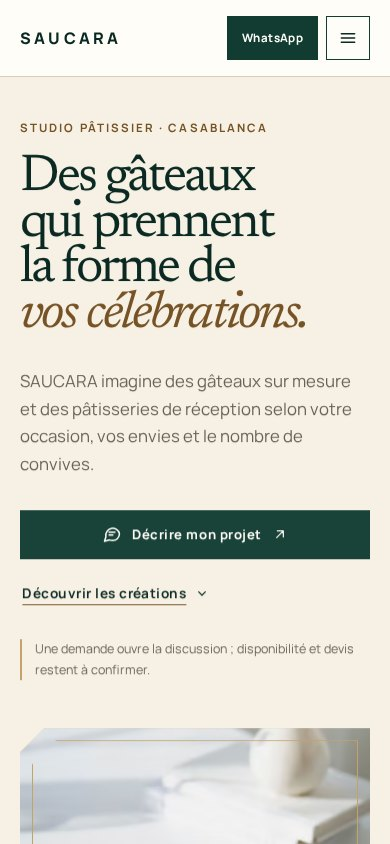
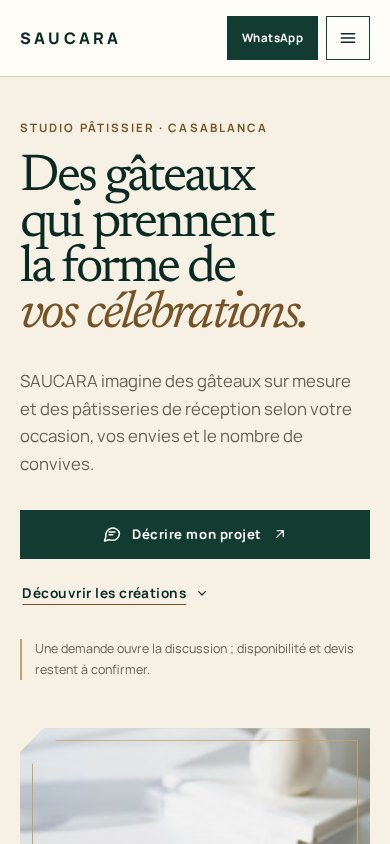
docs: finalize owner delivery packet

diff --git a/agency/state/QUALITY_REPORT.md b/agency/state/QUALITY_REPORT.md
@@ -2,35 +2,92 @@
 
 ## Candidate
 
-- Base: `unavailable`
-- Head: `unavailable`
-- Environment: local/CI deterministic checks
-- Generated: 2026-09-04T16:31:54+00:00
-- JavaScript project detected: no
+- Base: `afd46a739dbd4295a5bccdf0d1ddc902d8fc3d1d`
+- Agency OS setup: `fef9135`
+- Reviewed application candidate: `7fbca3918621ec439bfb3a5fe1d78aa31452d36a`
+- Branch: `codex/saucara-website`
+- Environment: local production build and deterministic checks
+- Final automated gate: 2026-09-04
+- JavaScript project detected: yes
 
 ## Automated checks
 
-| Capability | Command | Result | Notes |
-| --- | --- | --- | --- |
-| agency_validation | `/opt/pyvenv/bin/python3 scripts/validate_agency.py` | PASS | Agency structure, TOML, skill metadata, agents, and plan validation. |
-| javascript_project |  | N/A | No package.json at repository root; project script gates were not applicable. |
+| Capability           | Command                                                                             | Result | Evidence                                                              |
+| -------------------- | ----------------------------------------------------------------------------------- | ------ | --------------------------------------------------------------------- |
+| Clean install        | `npm ci`                                                                            | PASS   | 468 packages installed from the committed lockfile.                   |
+| Formatting           | `npm run format:check`                                                              | PASS   | All matched files use Prettier formatting.                            |
+| Agency validation    | `python3 scripts/validate_agency.py`                                                 | PASS   | Installed profile; 13 skills, 17 agents, 1 epic, and 8 tasks.         |
+| Agency integration   | `python3 -m unittest discover -s tests -v`                                           | PASS   | 1/1 Python integration test.                                          |
+| GitHub task plan     | `python3 scripts/sync_github_tasks.py`                                               | PASS   | Dry-run proposed 1 epic and 8 tasks; no remote data changed.          |
+| Python syntax        | `python3 -m compileall -q scripts tests`                                             | PASS   | No compilation errors.                                                |
+| Lint                 | `npm run lint`                                                                      | PASS   | ESLint completed with no errors or warnings.                          |
+| Type check           | `npm run typecheck`                                                                 | PASS   | Next route types generated; TypeScript completed with no errors.      |
+| Unit/component tests | `npm run test`                                                                      | PASS   | 6 files, 23/23 tests.                                                  |
+| Production build     | `npm run build`                                                                     | PASS   | Six statically rendered routes/assets generated with Webpack.         |
+| Browser E2E          | `npm run test:e2e`                                                                  | PASS   | Chromium 6/6: axe, interactions, overflow, motion, date aging, 404.   |
+| Dependency audit     | `npm audit --json`                                                                  | PASS   | 0 known vulnerabilities at all severities.                            |
+| Diff integrity       | `git diff --check`                                                                  | PASS   | No whitespace errors.                                                 |
+| Official Agency gate | `python3 scripts/quality_gate.py --ci --report agency/state/QUALITY_REPORT.md`       | PASS   | Agency validation, lint, typecheck, tests, and build all passed.      |
 
-## Independent review
+The Agency validator emits one informational warning because local branch and commit actions are allowed while GitHub synchronization remains in `dry-run`; issue creation, push, pull request, merge, and deployment permissions are all disabled.
 
-Deterministic scripts do not replace these review passes.
+## Independent review board
 
-| Gate | Reviewer | Result | Evidence |
-| --- | --- | --- | --- |
-| Correctness | `independent_reviewer` | NOT VERIFIED | Run against stable candidate |
-| Browser/device QA | `qa_engineer` | NOT VERIFIED | Real browser/device evidence required for UI |
-| Accessibility | `accessibility_reviewer` | NOT VERIFIED | Automated plus manual critical-flow checks |
-| Security | `security_reviewer` | NOT VERIFIED | Required for sensitive changes |
-| Performance | `performance_reviewer` | NOT VERIFIED | Required for performance-sensitive changes |
+Builders did not approve their own implementation. Three read-only reviewer tracks evaluated immutable commit `7fbca3918621ec439bfb3a5fe1d78aa31452d36a`.
 
-## Findings
+| Gate                     | Reviewer track                       | Result | Evidence                                                                                                    |
+| ------------------------ | ------------------------------------ | ------ | ----------------------------------------------------------------------------------------------------------- |
+| Correctness and scope    | `independent_review`                 | PASS   | All prior findings resolved; deterministic and browser gates independently rerun.                          |
+| Browser/device QA        | `qa_accessibility`                   | PASS   | Chromium at 320, 375, 768, 812 landscape, 1440, and 1920 px; no overflow, console errors, or broken images. |
+| Accessibility            | `qa_accessibility`                   | PASS   | Keyboard journeys and focus recovery passed; expanded axe scans reported zero violations.                  |
+| Performance              | `performance_review`                 | PASS   | Lighthouse plus payload, cache, image, reduced-motion, and runtime request audits.                         |
+| Privacy/security, scoped | independent review + automated audit | PASS   | No storage/backend/analytics; user-initiated WhatsApp only; npm audit found 0 issues.                       |
 
-Review-agent findings must be appended here by the `quality-gate` skill.
+## Accessibility evidence
+
+- Axe scans of the homepage, open mobile menu, prepared enquiry state, and 404 found zero WCAG A/AA or expanded WCAG 2.2/best-practice violations.
+- Independent keyboard review covered the skip link, mobile-menu open/Escape/focus return, FAQ activation with Enter/Space, invalid-form summary focus, error-summary links, form recovery, and prepared-state announcement.
+- Primary text combinations exceeded 4.5:1 in manual contrast calculations. Visible focus and forced-colour fallbacks are present.
+- Reduced-motion mode disables smooth scrolling, hero animation, image transforms, and nonessential transitions while preserving content and interaction.
+- Native date limits refresh from the visitor's local clock. A frozen 2030 clock test proves an older static build does not expose a stale minimum.
+
+## Performance evidence
+
+Fresh Lighthouse 13.4.1 simulated-mobile evidence on the corrected build:
+
+| Signal                    | Result                        |
+| ------------------------- | ----------------------------- |
+| Performance               | 92                            |
+| First Contentful Paint    | 1.09 s                        |
+| Largest Contentful Paint  | 1.75 s                        |
+| Total Blocking Time       | 354 ms                        |
+| Cumulative Layout Shift   | 0                             |
+| Speed Index               | 1.16 s                        |
+| Initial transfer          | 334,288 bytes / 326 KiB       |
+| Requests                  | 19; no runtime third parties  |
+
+The final date lifecycle correction added 75 raw bytes to the page client chunk, made no request, timer, listener, or layout read, and left the page statically rendered. Earlier three-run optimized-mobile evidence had a median performance score of 87, LCP 3.08 s, TBT 324.5 ms, and CLS 0. These localhost results are variable lab measurements, not production field Core Web Vitals; INP is unmeasured.
+
+## Corrected findings
+
+- Reformatted the installed pull-request template so the required format gate passes.
+- Rejected past and impossible dates, added native constraints, and added deterministic unit/component/browser coverage.
+- Refreshed the native date minimum after hydration so static builds do not age into a stale picker boundary.
+- Added the authoritative Manrope and Newsreader SIL OFL notices beside the redistributed font files.
+- Untracked generated `next-env.d.ts`, ignored it, and made `next typegen` part of type checking.
+- Made WhatsApp explicit in the mobile first viewport and added the safe footer WhatsApp link.
+- Strengthened browser assertions to decode every default CTA and verify its meaningful French prefill.
+- Added protocol-safe optional canonical-site configuration and absolute Open Graph assertions.
+
+## Residual limitations
+
+- Browser QA used Chromium because the browser plugin was unavailable. Safari, Firefox, physical devices, and a real screen reader were not exercised.
+- Performance evidence is localhost lab data. Production hosting/CDN behavior, geographic latency, p75 LCP/CLS/INP, and low-end physical hardware remain unverified.
+- The numberless WhatsApp composer cannot target SAUCARA until the owner supplies an approved number.
+- Instagram, address detail, service area, opening hours, policies, testimonials, and photography remain clearly labeled demonstration content.
+- `NEXT_PUBLIC_SITE_URL` intentionally falls back to localhost and must be set to the approved HTTPS origin before any release.
+- No deployment, push, pull request, protected-branch merge, or external publication was performed.
 
 ## Verdict
 
-`AUTOMATED_BASELINE_PASS` — independent browser/accessibility/security/performance/code review is still required as applicable.
+`READY_FOR_OWNER_REVIEW` — no unresolved critical, high, or release-blocking findings remain. The independent recommendation is **APPROVE CANDIDATE** for owner review, not production release.

diff --git a/agency/state/DELIVERY_PACKET.md b/agency/state/DELIVERY_PACKET.md
@@ -1,3 +1,171 @@
-# Delivery Packet
+# Owner Delivery Packet
 
-Use `agency/OWNER_REVIEW_TEMPLATE.md`. Current state: `NOT_READY`.
+## 1. Executive summary
+
+SAUCARA is ready for owner review as a polished, French, WhatsApp-first one-page concept for a fictional premium pâtisserie in Casablanca. Agency OS is installed and validated in the target repository, the implementation is isolated on `codex/saucara-website`, and separate independent QA/accessibility, performance, and correctness reviewers all passed immutable candidate `7fbca3918621ec439bfb3a5fe1d78aa31452d36a`.
+
+This is an approval candidate, not a production release. Nothing was deployed, pushed, merged, published, or connected to real business credentials.
+
+## 2. What was built
+
+- Responsive header with SAUCARA wordmark, anchors, explicit WhatsApp CTA, and accessible mobile menu.
+- Editorial hero, five signature creations, bespoke-cake service, four order steps, five occasion groups, and responsive image gallery.
+- Three testimonials visibly marked as fictional demonstration content.
+- Six-topic FAQ covering notice, customization, delivery, allergens, payment, and changes/cancellation.
+- Casablanca contact block, clearly fictional hours and Instagram placeholder, plus a compact client-only enquiry form.
+- Honest WhatsApp message-ready flow with French prefill, numberless demo fallback, validation, error summary, recovery state, and no data storage or POST.
+- Semantic landmarks, keyboard support, visible focus, reduced motion, metadata, Open Graph artwork, favicon, `noindex`, and branded 404.
+- Local licensed photography and fonts, source documentation, responsive image optimization, CI checks, and automated browser coverage.
+
+## 3. Main product and design decisions
+
+- The primary conversion is preparing and deliberately opening a WhatsApp message; the site never implies that a message or order has already been sent or confirmed.
+- No destination number was invented. `NEXT_PUBLIC_WHATSAPP_NUMBER` may add an owner-approved number; otherwise WhatsApp's numberless composer is used.
+- The visual system uses deep royal green, warm cream, muted gold, Newsreader editorial serif, Manrope sans, asymmetrical figure/caption layouts, and the restrained clipped-corner “Cadre Casablanca” motif.
+- The architecture is static-first Next.js App Router. Content renders on the server; only the mobile menu and form are client islands.
+- All business details, stock photography, and testimonials are transparently presented as demonstration material.
+- Demo pages are `noindex`. `NEXT_PUBLIC_SITE_URL` controls absolute metadata and falls back to localhost only for development.
+
+## 4. Files and architecture changed
+
+- `src/app`: page shell, metadata, global visual system, icon, Open Graph image, robots, and 404.
+- `src/components`: layout, section, UI, and contact-form components.
+- `src/content/site.ts`: centralized French navigation, products, occasions, gallery, testimonials, and FAQ content.
+- `src/lib`: enquiry validation/message composition, WhatsApp URL safety, and site-origin validation.
+- `src/assets`: nine local stock photographs and three self-hosted font faces with OFL notices.
+- `tests` and `e2e`: 23 unit/component assertions and six production-browser scenarios.
+- `design-system/saucara/MASTER.md`: brand tokens and responsive visual direction.
+- `docs/ASSETS.md` and `docs/evidence`: provenance, licensing, and preview evidence.
+- `agency`, `.agents`, `.codex`, `.github`, and `scripts`: installed Agency OS governance, roles, state, templates, workflows, and validators.
+
+## 5. GitHub issues or project tasks
+
+The local Agency plan contains one epic and eight meaningful tasks; all are complete:
+
+1. Agency setup and repository audit.
+2. Product and conversion strategy.
+3. UX and French content architecture.
+4. Visual system and licensed assets.
+5. Next.js architecture and quality tooling.
+6. Responsive frontend implementation.
+7. Forms, interactions, and test coverage.
+8. Independent quality board and owner handoff.
+
+GitHub synchronization remained in authorized `dry-run` mode. It would create one epic and eight tasks, but no remote issues, labels, project records, branches, pull requests, or comments were created.
+
+## 6. Commands and tests executed
+
+```bash
+npm ci
+npm run format:check
+python3 scripts/validate_agency.py
+python3 scripts/sync_github_tasks.py
+python3 -m unittest discover -s tests -v
+python3 -m compileall -q scripts tests
+npm run lint
+npm run typecheck
+npm run test
+npm run build
+npm run test:e2e
+npm audit --json
+python3 scripts/quality_gate.py --ci --report agency/state/QUALITY_REPORT.md
+git diff --check
+```
+
+The official Agency installer was also run first in dry-run mode, then applied with GitHub templates/workflows, then re-run in dry-run mode to confirm no remaining changes.
+
+## 7. Test results
+
+| Gate                    | Result |
+| ----------------------- | ------ |
+| Agency OS validation    | PASS — 13 skills, 17 agents, 1 epic, 8 tasks |
+| Agency Python test      | PASS — 1/1 |
+| Formatting              | PASS |
+| ESLint                  | PASS |
+| Next typegen/TypeScript | PASS |
+| Vitest                  | PASS — 23/23 |
+| Production build        | PASS — six static routes/assets |
+| Playwright              | PASS — 6/6 |
+| Dependency audit        | PASS — zero known vulnerabilities |
+| Independent review      | PASS |
+
+The browser suite checks complete content, local image loading and alternatives, anchors, French WhatsApp prefills, metadata, console/page errors, keyboard behavior, form invalid/recovery/ready states, responsive overflow at 320–1920 px, reduced motion, an aged static-build date boundary, and the custom 404.
+
+## 8. Accessibility review
+
+- Independent QA/accessibility verdict: PASS with no release blocker.
+- Axe found zero violations across homepage, open-menu, ready-form, and 404 states; an expanded review also covered WCAG 2.2 and best-practice rules.
+- Keyboard review passed for skip navigation, mobile disclosure/Escape/focus return, FAQ Enter/Space activation, linked validation summary, form recovery, outbound CTA, and status announcement.
+- Visible focus, semantic HTML, descriptive image alternatives, reduced-motion behavior, forced-colour fallbacks, and primary text contrast were reviewed.
+- Limitation: no physical device, Safari/Firefox engine, or real screen-reader session was available.
+
+## 9. Performance review
+
+Independent performance verdict: PASS. Fresh Lighthouse 13.4.1 simulated-mobile evidence measured:
+
+- Performance 92.
+- FCP 1.09 s; LCP 1.75 s; TBT 354 ms; CLS 0; Speed Index 1.16 s.
+- Initial transfer 334,288 bytes (326 KiB), 19 requests, and no runtime third-party request.
+- Responsive Next Image delivery, local WOFF2 fonts, long-lived static caching, one hero preload, lazy below-fold imagery, and static prerendering all passed review.
+
+This is localhost lab evidence, not field Core Web Vitals. Production p75 LCP/CLS/INP, CDN behavior, geographic latency, and low-end physical hardware remain unverified.
+
+## 10. Screenshots and preview evidence
+
+- [Desktop first view](../../docs/evidence/desktop-home.jpg)
+- [Mobile first view](../../docs/evidence/mobile-home.jpg)
+- [Open mobile navigation](../../docs/evidence/mobile-menu.jpg)
+- [Gallery direction](../../docs/evidence/gallery.jpg)
+- [Completed enquiry and message-ready state](../../docs/evidence/enquiry-ready.jpg)
+- [Detailed quality report](QUALITY_REPORT.md)
+
+Local preview after startup: [http://localhost:3000](http://localhost:3000).
+
+## 11. Known limitations
+
+- A real, owner-approved WhatsApp number and Instagram account are not configured.
+- Address detail, service/delivery area, hours, lead times, payment/change/cancellation/allergen wording, testimonials, and photography are fictional placeholders requiring owner review before commercial use.
+- The metadata origin remains localhost until `NEXT_PUBLIC_SITE_URL` is set to an approved HTTPS URL.
+- QA is Chromium-based; cross-engine, physical-device, and real-screen-reader coverage remains.
+- Lighthouse is variable local lab evidence; no production field telemetry exists and analytics were intentionally excluded.
+- ESLint 9 emits an upstream support-window warning during install; it remains the compatible pinned major for the current Next.js lint configuration and all lint rules pass.
+- No backend, CMS, analytics, upload, payment, authentication, or persistence exists by design.
+
+## 12. How to run locally
+
+Requirements: Node.js 22 and npm.
+
+```bash
+git switch codex/saucara-website
+npm ci
+cp .env.example .env.local
+npm run dev
+```
+
+Open [http://localhost:3000](http://localhost:3000). The copy step is optional for the safe demo defaults. Add only approved values to `.env.local`; never commit real credentials or personal contact data.
+
+For a production-mode check:
+
+```bash
+npm run build
+npm run start
+```
+
+## 13. Exact branch and commit
+
+- Branch: `codex/saucara-website`
+- Original target baseline: `afd46a7`
+- Separate Agency OS installation: `fef9135`
+- Website implementation: `320357c`
+- Independent-review corrections: `6e4af26`
+- Final reviewed application candidate: `7fbca3918621ec439bfb3a5fe1d78aa31452d36a`
+
+The owner-handoff documentation is committed separately after the reviewed application commit. No commit was pushed and `main` remains unchanged.
+
+Rollback is recoverable: revert the handoff/correction/implementation commits in reverse order. The isolated Agency OS setup commit can also be reverted independently if the framework installation itself is no longer wanted.
+
+## 14. Recommendation
+
+**APPROVE CANDIDATE**
+
+This means the owner may accept the design and implementation direction. It does not authorize deployment, real credentials, public claims, a protected-branch merge, or production release.

diff --git a/agency/state/RISKS.md b/agency/state/RISKS.md
@@ -2,11 +2,12 @@
 
 | ID    | Risk                                                                                         | Level  | Mitigation                                                                                                                  | Residual / verification                                          |
 | ----- | -------------------------------------------------------------------------------------------- | ------ | --------------------------------------------------------------------------------------------------------------------------- | ---------------------------------------------------------------- |
-| R-001 | Stock photos could be mistaken for real SAUCARA work.                                        | medium | Use local licensed files, descriptive alt text, asset documentation, and visible demo-photography disclosure.               | Independent truth/copy review.                                   |
-| R-002 | A numberless WhatsApp link proves message preparation but does not reach a business account. | medium | Centralize recipient configuration, label demo behavior, keep message useful, and document production requirement.          | Inspect hrefs; owner supplies number before launch.              |
-| R-003 | Long one-page content can bury conversion on mobile.                                         | medium | Compact copy, contextual CTAs, strong anchors, no obstructive floating bar.                                                 | Mobile screenshots and journey timing.                           |
-| R-004 | Gold-on-cream or fine serif typography can fail contrast/readability.                        | high   | Use gold only on deep green or decorative rules; use darker gold ink on cream; maintain 16px+ body and test contrast/zoom.  | Automated axe plus manual contrast/200% review.                  |
-| R-005 | Image/font weight can degrade LCP and layout stability.                                      | medium | Local WOFF2, responsive Next Image, intrinsic dimensions, preload only hero, lazy-load below fold, compress assets.         | Build output, Lighthouse/browser measurements, image load tests. |
-| R-006 | Form success language could imply a sent/confirmed order.                                    | high   | Define success as “message prepared,” expose a separate outbound link, and test forbidden wording.                          | Unit/component/E2E and copy audit.                               |
-| R-007 | Demo policies could be read as real commercial/legal terms.                                  | medium | Label hours, testimonials, policies, and contact details fictional; set `noindex`; avoid guarantees and exact legal claims. | Independent content review; replace before launch.               |
-| R-008 | External WhatsApp/Pexels/font availability could make build/runtime unstable.                | low    | Download assets/fonts locally; no runtime third-party requests except user-initiated WhatsApp navigation.                   | Network/request audit and offline image/font load check.         |
+| R-001 | Stock photos could be mistaken for real SAUCARA work.                                        | medium | Use local licensed files, descriptive alt text, asset documentation, and visible demo-photography disclosure.               | Verified; owner photography is still required before launch.                     |
+| R-002 | A numberless WhatsApp link proves message preparation but does not reach a business account. | medium | Centralize recipient configuration, label demo behavior, keep message useful, and document production requirement.          | Verified for demo; owner must supply an approved number before launch.            |
+| R-003 | Long one-page content can bury conversion on mobile.                                         | medium | Compact copy, contextual CTAs, strong anchors, no obstructive floating bar.                                                 | Verified at tested widths; real visitor analytics are intentionally unavailable. |
+| R-004 | Gold-on-cream or fine serif typography can fail contrast/readability.                        | high   | Use gold only on deep green or decorative rules; use darker gold ink on cream; maintain 16px+ body and test contrast/zoom.  | Automated axe and independent manual contrast review passed.                     |
+| R-005 | Image/font weight can degrade LCP and layout stability.                                      | medium | Local WOFF2, responsive Next Image, intrinsic dimensions, preload only hero, lazy-load below fold, compress assets.         | Lab review passed; production field LCP/INP remains unmeasured.                  |
+| R-006 | Form success language could imply a sent/confirmed order.                                    | high   | Define success as “message prepared,” expose a separate outbound link, and test forbidden wording.                          | Unit/component/E2E and independent copy review passed.                           |
+| R-007 | Demo policies could be read as real commercial/legal terms.                                  | medium | Label hours, testimonials, policies, and contact details fictional; set `noindex`; avoid guarantees and exact legal claims. | Independent review passed; replace all demo operations before launch.            |
+| R-008 | External WhatsApp/Pexels/font availability could make build/runtime unstable.                | low    | Download assets/fonts locally; no runtime third-party requests except user-initiated WhatsApp navigation.                   | Runtime audit passed; WhatsApp availability remains external.                    |
+| R-009 | Browser-specific behavior could differ outside the tested Chromium engine.                    | medium | Use semantic/native controls, standards-based CSS, keyboard tests, reduced motion, and progressive enhancement.             | Safari, Firefox, physical devices, and a real screen reader remain untested.      |

diff --git a/agency/state/PROJECT_CHARTER.md b/agency/state/PROJECT_CHARTER.md
@@ -52,25 +52,25 @@ Land on the page → understand the custom cake/pastry offer and Casablanca cont
 
 ## Acceptance criteria
 
-- [ ] At 375px and desktop widths, the first view identifies custom cakes/pastries, Casablanca, and a primary WhatsApp action.
-- [ ] Header, hero, five creations, custom service, four request steps, five occasion types, gallery, demo testimonials, six-topic FAQ, contact/form, and footer are complete in natural French.
-- [ ] Every primary CTA produces a tested HTTPS WhatsApp URL with a French prefill and never claims order confirmation.
-- [ ] The form blocks invalid required data, shows linked inline errors and a focusable summary, preserves input, and creates an honest message-ready state without storage or POST requests.
-- [ ] Mobile menu, FAQ, anchors, form, and outbound links are keyboard usable with visible focus and no traps.
-- [ ] Reduced-motion mode disables nonessential transforms, animation, and smooth scrolling while leaving all content available.
-- [ ] All stock imagery is local, loads successfully, has correct dimensions/alt treatment, and is documented as demonstration imagery with source and author.
-- [ ] Testimonials and fictional business details are visibly labeled as demo content; no unsupported claim, metric, award, urgency, exact price, or real-customer implication appears.
-- [ ] Metadata, Open Graph image, favicon, semantic landmarks, French language, demo `noindex`, and custom 404 are present.
-- [ ] No console error, broken internal link, placeholder `href="#"`, image failure, or horizontal overflow occurs at tested widths.
-- [ ] Formatting, Agency validation, Python tests, lint, typecheck, unit/component tests, production build, and Playwright E2E all pass.
-- [ ] Independent QA, accessibility, performance, and implementation reviews permit owner review, with limitations documented.
+- [x] At 375px and desktop widths, the first view identifies custom cakes/pastries, Casablanca, and a primary WhatsApp action.
+- [x] Header, hero, five creations, custom service, four request steps, five occasion types, gallery, demo testimonials, six-topic FAQ, contact/form, and footer are complete in natural French.
+- [x] Every primary CTA produces a tested HTTPS WhatsApp URL with a French prefill and never claims order confirmation.
+- [x] The form blocks invalid required data, shows linked inline errors and a focusable summary, preserves input, and creates an honest message-ready state without storage or POST requests.
+- [x] Mobile menu, FAQ, anchors, form, and outbound links are keyboard usable with visible focus and no traps.
+- [x] Reduced-motion mode disables nonessential transforms, animation, and smooth scrolling while leaving all content available.
+- [x] All stock imagery is local, loads successfully, has correct dimensions/alt treatment, and is documented as demonstration imagery with source and author.
+- [x] Testimonials and fictional business details are visibly labeled as demo content; no unsupported claim, metric, award, urgency, exact price, or real-customer implication appears.
+- [x] Metadata, Open Graph image, favicon, semantic landmarks, French language, demo `noindex`, and custom 404 are present.
+- [x] No console error, broken internal link, placeholder `href="#"`, image failure, or horizontal overflow occurs at tested widths.
+- [x] Formatting, Agency validation, Python tests, lint, typecheck, unit/component tests, production build, and Playwright E2E all pass.
+- [x] Independent QA, accessibility, performance, and implementation reviews permit owner review, with limitations documented.
 
 ## Definition of done
 
-- [ ] Every acceptance criterion is verified.
-- [ ] Required quality gates pass or owner-visible exceptions are documented.
-- [ ] Delivery packet is complete.
-- [ ] No approval-gated action is implied as completed.
+- [x] Every acceptance criterion is verified.
+- [x] Required quality gates pass or owner-visible exceptions are documented.
+- [x] Delivery packet is complete.
+- [x] No approval-gated action is implied as completed.
 
 ## Owner decisions required
 

diff --git a/agency/state/DECISIONS.md b/agency/state/DECISIONS.md
@@ -79,11 +79,11 @@ Record material product, design, architecture, routing, and operational decision
 - **Date:** 2026-09-04
 - **Status:** accepted
 - **Context:** Turbopack tries to bind an internal port while processing PostCSS, an operation denied by this execution container. Next's experimental TypeScript CLI path also exits successfully but loses its captured `--showConfig` output in the same environment.
-- **Decision:** Run `next build --webpack` and explicitly disable `experimental.useTypeScriptCli` for reproducible builds in this repository.
+- **Decision:** Run `next build --webpack`, explicitly disable `experimental.useTypeScriptCli`, and generate Next route declarations before standalone TypeScript checking for reproducible builds in this repository.
 - **Alternatives:** Disable type checking; accept a permanently failing build; patch framework internals.
 - **Consequences:** The project keeps Next.js App Router, Tailwind, and full type checking (`tsc --noEmit` plus the compiler API check inside the build) without weakening a quality rule. Development may still use Next's default engine.
 - **Reversibility:** High; remove the two settings when the execution environment supports the default paths reliably.
-- **Evidence:** Two Turbopack runs failed on internal port binding; the CLI runner returned code 0 with empty stdout; the Webpack/compiler-API build completed all six static routes.
+- **Evidence:** Two Turbopack runs failed on internal port binding; the CLI runner returned code 0 with empty stdout; `next typegen && tsc --noEmit` and the Webpack/compiler-API build completed successfully across all six static routes.
 - **Owner approval required:** no.
 
 ## Template

diff --git a/README.md b/README.md
@@ -62,6 +62,6 @@ Les textes métier et politiques sont des exemples à valider avant toute utilis
 
 ## Agency OS
 
-L’Agency OS a été installé de façon additive dans ce dépôt cible. Le plan se trouve dans [`agency/state/plan.json`](agency/state/plan.json), les décisions dans [`agency/state/DECISIONS.md`](agency/state/DECISIONS.md), et le rapport qualité dans [`agency/state/QUALITY_REPORT.md`](agency/state/QUALITY_REPORT.md).
+L’Agency OS a été installé de façon additive dans ce dépôt cible. Le plan se trouve dans [`agency/state/plan.json`](agency/state/plan.json), les décisions dans [`agency/state/DECISIONS.md`](agency/state/DECISIONS.md), le rapport qualité dans [`agency/state/QUALITY_REPORT.md`](agency/state/QUALITY_REPORT.md), et le dossier de livraison dans [`agency/state/DELIVERY_PACKET.md`](agency/state/DELIVERY_PACKET.md). Les aperçus validés sont regroupés dans [`docs/evidence`](docs/evidence/README.md).
 
 Branche de travail : `codex/saucara-website`. Aucun déploiement ni merge vers `main` n’est effectué par ce projet.

diff --git a/docs/evidence/README.md b/docs/evidence/README.md
@@ -1,0 +1,13 @@
+# Preview evidence
+
+These screenshots were captured from the local production build of reviewed application candidate `7fbca3918621ec439bfb3a5fe1d78aa31452d36a` on 2026-09-04. They are evidence, not a deployed preview.
+
+| File                | Viewport  | State                                      |
+| ------------------- | --------- | ------------------------------------------ |
+| `desktop-home.jpg`  | 1440×1000 | Desktop hero and primary WhatsApp journey  |
+| `mobile-home.jpg`   | 390×844   | Mobile first view                          |
+| `mobile-menu.jpg`   | 390×844   | Expanded keyboard-accessible mobile menu   |
+| `gallery.jpg`       | 1440×1000 | Responsive editorial gallery direction     |
+| `enquiry-ready.jpg` | 1240×1300 | Completed form and honest message-ready UI |
+
+Chromium was run headlessly with French locale against `next start`. The separate Playwright suite provides interaction, accessibility, console, image, overflow, metadata, reduced-motion, date-aging, and 404 assertions.
